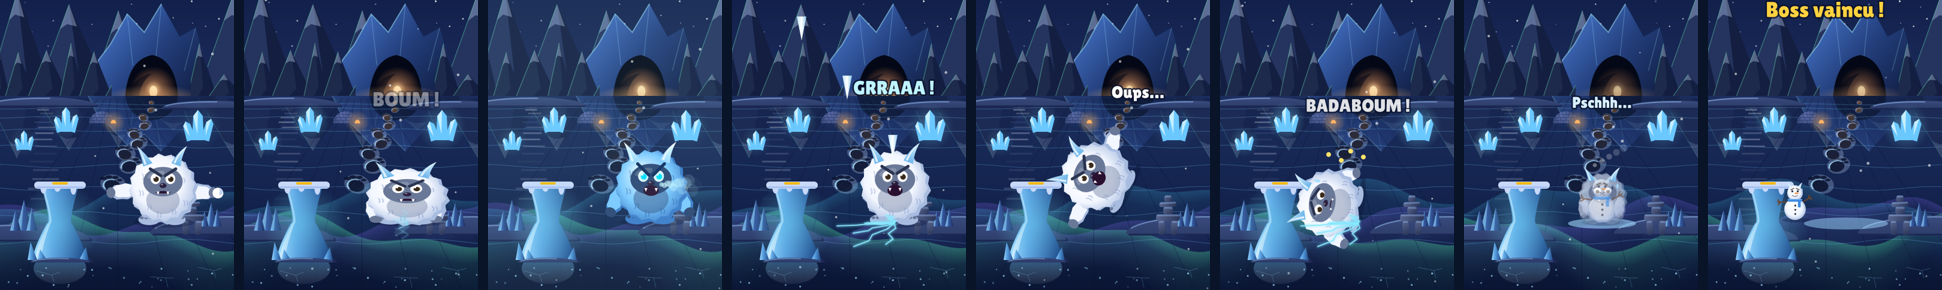
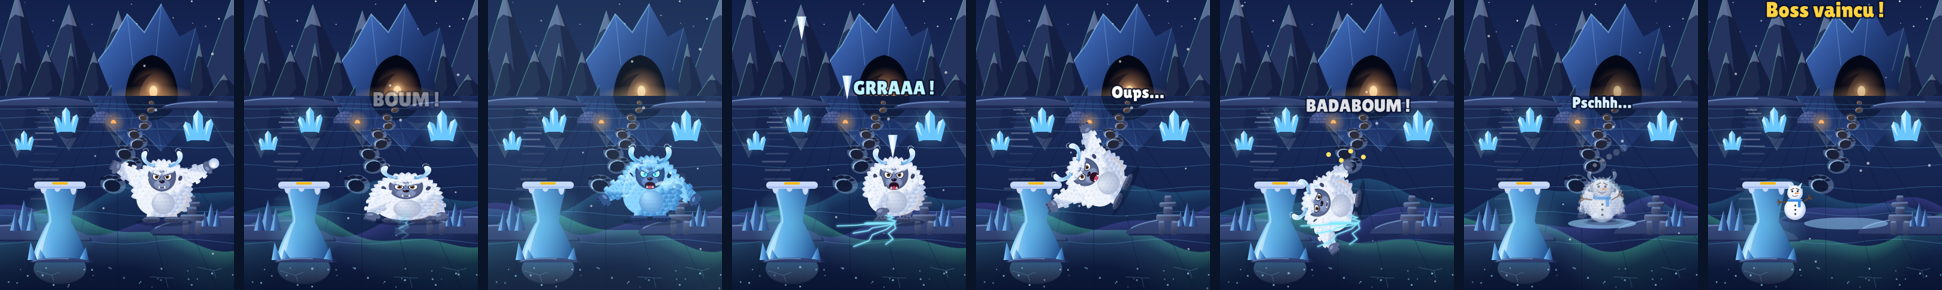
Monde 5 : Yéti v2 (silhouette de gorille des neiges, fourrure en touffes, cornes de bélier en glace, deux lumières)
Claude-Session: https://claude.ai/code/session_01NEC92qwxswvqqiEaD4C6hh

diff --git a/design/brouillons/2026-11-19-banquise-maquettes.html b/design/brouillons/2026-11-19-banquise-maquettes.html
@@ -281,7 +281,7 @@ function furPath(cx, cy, rx, ry, n, amp, ph) { c.beginPath(); for (let i = 0; i 
 function yetiPal(o) { if (o.rage) return { fur: '#7ac8ff', furSh: '#3a7ac8', furLi: '#d8f2ff', belly: '#3a5a8a', face: '#2a4470', horn: '#ffffff', hornSh: '#9ad8ff', eye: '#ffffff', iris: '#00e0ff' };
   if (o.snow) return { fur: '#ffffff', furSh: '#c8d8f0', furLi: '#ffffff', belly: '#e8f0fc', face: '#f4f8ff', horn: '#ffffff', hornSh: '#c8e4ff', eye: '#1a2440', iris: '#1a2440' };
   return { fur: '#f2f6ff', furSh: '#a8bce0', furLi: '#ffffff', belly: '#8a98b4', face: '#6a7898', horn: '#d8f2ff', hornSh: '#6ab4ea', eye: '#ffffff', iris: '#3a2a1a' }; }
-function yeti(x, y, s, t, o = {}) { /* y = pieds au sol */
+var yeti = function (x, y, s, t, o = {}) { /* y = pieds au sol */
   const P = yetiPal(o), sq = o.squash || 1, crouch = o.crouch || 0, arms = o.arms || 0, blink = (t % 220) < 7 ? .12 : 1;
   c.save(); c.translate(x, y); c.scale(s * (o.flip ? -1 : 1) / sq, s * sq);
   /* ombre */ c.fillStyle = 'rgba(10,20,50,0.3)'; c.beginPath(); c.ellipse(4, 2, 62, 10, 0, 0, TAU); c.fill();
@@ -362,6 +362,119 @@ function snowman(x, y, s, t, o = {}) { const sad = o.sad == null ? 1 : o.sad, wa
   /* bouche en charbon (moue) */ c.fillStyle = '#2a2a3a'; for (let k = 0; k < 5; k++) { c.beginPath(); c.arc(-8 + k * 4, -76 - Math.abs(k - 2) * 1.4 * sad + (1 - sad) * Math.abs(k - 2) * 1.4, 1.4, 0, TAU); c.fill(); }
   if (sad) { c.fillStyle = 'rgba(160,220,255,0.9)'; c.beginPath(); c.moveTo(24, -104); c.quadraticCurveTo(28, -96, 24, -94); c.quadraticCurveTo(20, -96, 24, -104); c.fill(); }
   c.restore(); }
+/* ===== Yéti v2 : silhouette de gros gorille des neiges, fourrure en touffes superposées, deux lumières ===== */
+function yetiPal2(o) {
+  if (o.rage) return { f0: '#e4f8ff', f1: '#8ad4ff', f2: '#3a86d0', f3: '#163e80', skin: '#2c4a86', skinL: '#5a82c4', skinD: '#14285a', pad: '#10204a', eyeW: '#e8fcff', iris: '#00e8ff', horn0: '#ffffff', horn1: '#7ad8ff', horn2: '#2a78c8', brow: '#0e2a64' };
+  return { f0: '#ffffff', f1: '#eef3fc', f2: '#b8c8e6', f3: '#7a8cb8', skin: '#5a6890', skinL: '#8494bc', skinD: '#38446a', pad: '#2c3656', eyeW: '#fbfcff', iris: '#5a3a1e', horn0: '#ffffff', horn1: '#b8e4ff', horn2: '#5aa0e0', brow: '#2c3656' }; }
+/* une touffe de fourrure : goutte orientée, dégradé du clair (lumière haut-gauche) au foncé */
+function tuft(x, y, w, h, a, P, lit) { c.save(); c.translate(x, y); c.rotate(a);
+  const g = c.createLinearGradient(-w, -h * .2, w * .6, h); g.addColorStop(0, lit > .5 ? P.f0 : P.f1); g.addColorStop(.55, lit > .2 ? P.f1 : P.f2); g.addColorStop(1, P.f2);
+  c.fillStyle = g; c.beginPath(); c.moveTo(-w, 0); c.quadraticCurveTo(-w * .9, h * .7, 0, h); c.quadraticCurveTo(w * .9, h * .7, w, 0); c.quadraticCurveTo(0, -h * .25, -w, 0); c.fill();
+  c.strokeStyle = 'rgba(80,100,150,0.12)'; c.lineWidth = 1; c.beginPath(); c.moveTo(w * .2, h * .15); c.quadraticCurveTo(w * .35, h * .55, w * .05, h * .9); c.stroke();
+  c.restore(); }
+/* masse de fourrure : on remplit une forme puis on la couvre de touffes en rangées (du haut vers le bas) */
+function furMass(path, bx0, by0, bx1, by1, P, seed, tw = 13) {
+  c.save(); path(); c.clip();
+  const g = c.createLinearGradient(bx0, by0, bx1, by1); g.addColorStop(0, P.f1); g.addColorStop(.6, P.f2); g.addColorStop(1, P.f3); c.fillStyle = g; c.fillRect(bx0 - 20, by0 - 20, bx1 - bx0 + 40, by1 - by0 + 40);
+  let row = 0; for (let y = by0 - 6; y < by1 + 10; y += tw * .95, row++) for (let x = bx0 - 10 + (row % 2) * tw * .7; x < bx1 + 10; x += tw * 1.4) {
+    const jx = (h1(seed + row * 31 + x) - .5) * 6, lit = 1 - ((x - bx0) / (bx1 - bx0) * .6 + (y - by0) / (by1 - by0) * .7);
+    tuft(x + jx, y, tw * .85, tw * 1.6, (h1(seed + x * 3 + row) - .5) * .5, P, lit); }
+  c.restore(); }
+/* contour en touffes qui dépassent de la silhouette */
+function furEdge(pts, P, out, tw = 10) { for (let i = 0; i < pts.length; i++) { const [x, y, a, lit] = pts[i]; tuft(x, y, tw, tw * 1.7, a, P, lit); } }
+function iceHorn(sd, P, rage) { c.save(); c.scale(sd, 1);
+  /* corne de bélier en glace : courbe épaisse, facettes, reflet, éclat */
+  const path = () => { c.beginPath(); c.moveTo(-10, 8); c.bezierCurveTo(14, 2, 34, -18, 26, -40); c.bezierCurveTo(20, -52, 4, -50, 8, -38); c.bezierCurveTo(12, -30, 16, -24, 10, -16); c.bezierCurveTo(6, -10, -2, -6, -12, -4); c.closePath(); };
+  const g = c.createLinearGradient(-6, 6, 30, -56); g.addColorStop(0, P.horn2); g.addColorStop(.45, P.horn1); g.addColorStop(1, P.horn0); c.fillStyle = g; path(); c.fill();
+  c.save(); path(); c.clip(); c.fillStyle = 'rgba(255,255,255,0.55)'; c.beginPath(); c.moveTo(-6, 0); c.bezierCurveTo(8, -6, 20, -26, 14, -44); c.lineTo(8, -46); c.bezierCurveTo(12, -28, 4, -12, -8, -6); c.fill();
+  c.strokeStyle = 'rgba(40,110,190,0.35)'; c.lineWidth = 1.2; for (const k of [.3, .55, .78]) { c.beginPath(); c.moveTo(-4 + k * 20, 4 - k * 30); c.lineTo(8 + k * 22, -4 - k * 34); c.stroke(); } c.restore();
+  c.strokeStyle = 'rgba(255,255,255,0.9)'; c.lineWidth = 1.4; c.beginPath(); c.moveTo(20, -50); c.bezierCurveTo(12, -60, 0, -54, 4, -44); c.stroke();
+  if (rage) { c.save(); c.shadowColor = '#7af0ff'; c.shadowBlur = 14; c.fillStyle = 'rgba(180,250,255,0.9)'; c.beginPath(); c.arc(22, -50, 2.5, 0, TAU); c.fill(); c.restore(); }
+  c.restore(); }
+function yeti2(x, y, s, t, o = {}) {
+  const P = yetiPal2(o), sq = o.squash || 1, cr = o.crouch || 0, blink = (t % 230) < 7 ? .1 : 1, breathe = Math.sin(t * .05) * (1 - cr) * 2, mo = o.mouth || 0;
+  const aR = o.arms || 0, aL = o.armsL != null ? o.armsL : aR;
+  c.save(); c.translate(x, y); c.scale(s * (o.flip ? -1 : 1) / sq, s * sq);
+  /* ombre portée et contact */
+  c.fillStyle = 'rgba(6,14,40,0.35)'; c.beginPath(); c.ellipse(8, 2, 92, 13, 0, 0, TAU); c.fill();
+  const BY = -96 + cr * 22 + breathe;   /* centre du corps */
+  /* ---- jambes et pieds ---- */
+  for (const sd of [-1, 1]) {
+    const lp = () => { c.beginPath(); c.moveTo(sd * 18, BY + 50); c.quadraticCurveTo(sd * 54, BY + 60, sd * 50, -12); c.lineTo(sd * 18, -12); c.closePath(); };
+    furMass(lp, sd < 0 ? -56 : 14, BY + 40, sd < 0 ? -14 : 56, 0, P, 40 + sd, 10);
+    c.fillStyle = P.skinD; c.beginPath(); c.ellipse(sd * 36, -6, 30, 10, 0, 0, TAU); c.fill();
+    c.fillStyle = P.skin; c.beginPath(); c.ellipse(sd * 34, -9, 27, 8, 0, Math.PI, TAU); c.fill();
+    for (let k = 0; k < 3; k++) { const tx = sd * (24 + k * 11); c.fillStyle = P.pad; c.beginPath(); c.ellipse(tx, -3, 6, 4.5, 0, 0, TAU); c.fill(); c.fillStyle = 'rgba(255,255,255,0.18)'; c.beginPath(); c.ellipse(tx - 1.5, -5, 2.5, 1.5, 0, 0, TAU); c.fill(); }
+  }
+  /* ---- bras arrière (côté droit) dessiné avant le corps ---- */
+  const arm = (sd, a) => { c.save(); c.translate(sd * 58, BY - 36); c.rotate(sd * (.18 - a * 2.6));
+    const ap = () => { c.beginPath(); c.moveTo(-20, -6); c.bezierCurveTo(-28, 30, -24, 70, -16, 96); c.lineTo(16, 96); c.bezierCurveTo(24, 66, 26, 24, 18, -10); c.closePath(); };
+    furMass(ap, -30, -10, 28, 100, P, 70 + sd * 5, 11);
+    furEdge([[-22, 20, .5, .8], [-24, 48, .4, .6], [-20, 76, .3, .4], [22, 30, -.4, .3], [20, 62, -.3, .2]], P, 1, 9);
+    /* main : paume grise, 3 gros doigts, pouce */
+    c.fillStyle = P.skin; c.beginPath(); c.ellipse(0, 104, 19, 14, 0, 0, TAU); c.fill();
+    c.fillStyle = P.skinL; c.beginPath(); c.ellipse(-5, 100, 9, 5, -.3, 0, TAU); c.fill();
+    for (let k = 0; k < 3; k++) { c.fillStyle = P.skin; c.beginPath(); c.ellipse(-11 + k * 11, 117, 6, 8, 0, 0, TAU); c.fill(); c.fillStyle = P.skinD; c.beginPath(); c.ellipse(-11 + k * 11, 121, 4, 3, 0, 0, TAU); c.fill(); }
+    c.fillStyle = P.skin; c.beginPath(); c.ellipse(sd * -18, 102, 6, 9, sd * .6, 0, TAU); c.fill();
+    if (o.ball && sd > 0) { const g = c.createRadialGradient(-6, 122, 2, 0, 128, 18); g.addColorStop(0, '#ffffff'); g.addColorStop(1, '#a8c4ec'); c.fillStyle = g; c.beginPath(); c.arc(0, 128, 17, 0, TAU); c.fill(); c.fillStyle = 'rgba(255,255,255,0.9)'; c.beginPath(); c.arc(-6, 121, 4, 0, TAU); c.fill(); }
+    c.restore(); };
+  arm(1, aR);
+  /* ---- corps (poire) ---- */
+  const bodyPath = () => { c.beginPath(); c.moveTo(0, BY - 96); c.bezierCurveTo(52, BY - 98, 82, BY - 50, 84, BY + 6); c.bezierCurveTo(88, BY + 50, 60, BY + 78, 0, BY + 80); c.bezierCurveTo(-60, BY + 78, -88, BY + 50, -84, BY + 6); c.bezierCurveTo(-82, BY - 50, -52, BY - 98, 0, BY - 96); c.closePath(); };
+  furMass(bodyPath, -88, BY - 100, 88, BY + 84, P, 11, 14);
+  /* contour en touffes (silhouette poilue), plus clair côté lumière */
+  const edge = []; for (let i = 0; i <= 22; i++) { const u = i / 22, a = Math.PI + u * Math.PI * 1.25 - .15, rx = 84, ry = 90; const ex = Math.cos(a) * rx, ey = BY - 4 + Math.sin(a) * ry; if (ey > BY + 60) continue; edge.push([ex, ey, a - Math.PI / 2, 1 - u]); }
+  furEdge(edge, P, 1, 11);
+  /* ventre : fourrure plus courte et plus grise */
+  c.save(); c.beginPath(); c.ellipse(4, BY + 34, 38, 36, 0, 0, TAU); c.clip();
+  const vg = c.createRadialGradient(-12, BY + 14, 6, 4, BY + 34, 46); vg.addColorStop(0, o.rage ? '#a8dcff' : '#dfe6f4'); vg.addColorStop(1, o.rage ? '#4a8ad0' : '#a4b2d0'); c.fillStyle = vg; c.fillRect(-50, BY - 20, 100, 100);
+  for (let r = 0; r < 6; r++) for (let k = -3; k <= 3; k++) { const tx = k * 14 + (r % 2) * 7, ty = BY + 2 + r * 13; c.strokeStyle = 'rgba(70,90,140,0.18)'; c.lineWidth = 1.2; c.beginPath(); c.moveTo(tx - 4, ty); c.quadraticCurveTo(tx, ty + 5, tx + 4, ty); c.stroke(); }
+  c.restore();
+  /* ---- tête : visage, oreilles, cornes, sourcils ---- */
+  const HY = BY - 46;
+  for (const sd of [-1, 1]) { c.save(); c.translate(sd * 34, HY - 44); c.rotate(sd * .15); c.scale(1.05, 1.05); iceHorn(sd, P, o.rage); c.restore(); }
+  for (const sd of [-1, 1]) { furEdge([[sd * 62, HY - 8, sd * -1.2, sd < 0 ? .8 : .3], [sd * 66, HY + 4, sd * -1.4, .4]], P, 1, 9); c.fillStyle = P.skinD; c.beginPath(); c.ellipse(sd * 60, HY - 2, 6, 9, sd * .5, 0, TAU); c.fill(); }
+  /* masque du visage (forme de cœur), peau mate avec modelé */
+  const facePath = () => { c.beginPath(); c.moveTo(0, HY - 34); c.bezierCurveTo(18, HY - 46, 48, HY - 38, 46, HY - 8); c.bezierCurveTo(46, HY + 22, 26, HY + 40, 0, HY + 42); c.bezierCurveTo(-26, HY + 40, -46, HY + 22, -46, HY - 8); c.bezierCurveTo(-48, HY - 38, -18, HY - 46, 0, HY - 34); c.closePath(); };
+  const fg = c.createRadialGradient(-16, HY - 18, 4, 4, HY + 4, 60); fg.addColorStop(0, P.skinL); fg.addColorStop(.6, P.skin); fg.addColorStop(1, P.skinD); c.fillStyle = fg; facePath(); c.fill();
+  c.save(); facePath(); c.clip(); c.fillStyle = 'rgba(255,255,255,0.14)'; c.beginPath(); c.ellipse(-18, HY - 24, 20, 8, -.4, 0, TAU); c.fill(); c.restore();
+  /* touffes qui retombent sur le front (frange) */
+  for (let k = -3; k <= 3; k++) tuft(k * 12, HY - 40 + Math.abs(k) * 2, 9, 16, k * .1, P, k < 0 ? .9 : .5);
+  /* yeux */
+  for (const sd of [-1, 1]) { const ex = sd * 19, ey = HY - 8;
+    c.fillStyle = P.skinD; c.beginPath(); c.ellipse(ex, ey + 1, 14, 13, 0, 0, TAU); c.fill(); /* orbite */
+    c.fillStyle = P.eyeW; c.beginPath(); c.ellipse(ex, ey, 11, 11.5 * blink * (o.sad ? .85 : 1), 0, 0, TAU); c.fill();
+    if (blink > .5) { if (o.rage) { c.save(); c.shadowColor = '#00e8ff'; c.shadowBlur = 16; }
+      const ig = c.createRadialGradient(ex, ey, 1, ex + (o.sad ? 0 : sd * 1), ey + 1, 7); ig.addColorStop(0, o.rage ? '#ffffff' : '#a87a4a'); ig.addColorStop(1, P.iris); c.fillStyle = ig; c.beginPath(); c.arc(ex + (o.sad ? 0 : -sd * 1.5), ey + (o.sad ? 3 : 1.5), 6.5, 0, TAU); c.fill();
+      c.fillStyle = o.rage ? '#004a80' : '#120a06'; c.beginPath(); c.arc(ex + (o.sad ? 0 : -sd * 1.5), ey + (o.sad ? 3 : 1.5), o.rage ? 2.2 : 3.4, 0, TAU); c.fill(); if (o.rage) c.restore();
+      c.fillStyle = '#ffffff'; c.beginPath(); c.arc(ex - 3.5, ey - 3.5, 2.4, 0, TAU); c.fill(); c.beginPath(); c.arc(ex + 3, ey + 4, 1, 0, TAU); c.fill(); }
+    /* paupière supérieure lourde (air bougon) */
+    const tilt = o.sad ? -7 : o.rage ? 12 : 8; c.save(); c.beginPath(); c.ellipse(ex, ey, 12, 12.5, 0, 0, TAU); c.clip(); c.fillStyle = P.skin; c.beginPath(); c.moveTo(ex - 14, ey - 4 + tilt * sd * .55); c.lineTo(ex + 14, ey - 4 - tilt * sd * .55); c.lineTo(ex + 14, ey - 16); c.lineTo(ex - 14, ey - 16); c.fill(); c.restore();
+    /* gros sourcil en fourrure */
+    c.save(); c.translate(ex, ey - 13); c.rotate(-sd * tilt * .045); for (let k = 0; k < 4; k++) tuft(-12 + k * 8, -3, 6, 10, sd * .5 + .2, { f0: o.rage ? '#e4f8ff' : '#ffffff', f1: P.f1, f2: P.f2 }, k / 4); c.restore(); }
+  /* museau, nez, bouche avec deux crocs du bas (mâchoire bougonne) */
+  c.fillStyle = P.skinL; c.beginPath(); c.ellipse(0, HY + 18, 26, 17, 0, 0, TAU); c.fill();
+  c.fillStyle = 'rgba(255,255,255,0.15)'; c.beginPath(); c.ellipse(-8, HY + 12, 12, 5, -.2, 0, TAU); c.fill();
+  c.fillStyle = '#1e1630'; c.beginPath(); c.moveTo(-9, HY + 6); c.quadraticCurveTo(0, HY + 2, 9, HY + 6); c.quadraticCurveTo(10, HY + 14, 0, HY + 15); c.quadraticCurveTo(-10, HY + 14, -9, HY + 6); c.fill();
+  c.fillStyle = 'rgba(255,255,255,0.4)'; c.beginPath(); c.ellipse(-3, HY + 7, 3, 1.6, 0, 0, TAU); c.fill();
+  const mY = HY + 27;
+  c.fillStyle = '#2a0e24';
+  if (mo > .1) { c.beginPath(); c.ellipse(0, mY + 2, 16, 4 + mo * 10, 0, 0, TAU); c.fill(); c.fillStyle = '#c84a6a'; c.beginPath(); c.ellipse(0, mY + 4 + mo * 6, 9, 3 + mo * 3, 0, 0, TAU); c.fill(); }
+  else { c.beginPath(); c.moveTo(-17, mY - (o.sad ? -3 : 1)); c.quadraticCurveTo(0, mY + (o.sad ? -4 : 4), 17, mY - (o.sad ? -3 : 1)); c.quadraticCurveTo(0, mY + (o.sad ? 1 : 8), -17, mY - (o.sad ? -3 : 1)); c.fill(); }
+  c.fillStyle = '#fbf6ea'; for (const tx of [-9, 9]) { const ty = mY + (mo > .1 ? 4 + mo * 9 : 4); c.beginPath(); c.moveTo(tx - 3.5, ty); c.lineTo(tx + 3.5, ty); c.lineTo(tx + (tx < 0 ? -.5 : .5), ty - 9 - (o.sad ? -2 : 0)); c.closePath(); c.fill(); }
+  if (o.sad) { c.fillStyle = 'rgba(170,225,255,0.95)'; c.beginPath(); c.moveTo(52, HY - 34); c.quadraticCurveTo(59, HY - 20, 52, HY - 16); c.quadraticCurveTo(45, HY - 20, 52, HY - 34); c.fill(); }
+  /* ---- bras avant (gauche) ---- */
+  arm(-1, aL);
+  /* ---- lumières : liseré de lune (haut-gauche), liseré chaud de la grotte (droite), givre en colère ---- */
+  c.save(); bodyPath(); c.clip();
+  c.strokeStyle = 'rgba(210,235,255,0.55)'; c.lineWidth = 8; c.beginPath(); c.moveTo(-84, BY + 10); c.bezierCurveTo(-82, BY - 50, -52, BY - 98, 0, BY - 96); c.stroke();
+  if (o.night && !o.rage) { c.strokeStyle = 'rgba(255,170,100,0.35)'; c.lineWidth = 10; c.beginPath(); c.moveTo(84, BY + 6); c.bezierCurveTo(88, BY + 50, 60, BY + 78, 20, BY + 80); c.stroke(); }
+  c.restore();
+  if (o.rage) { for (const [fx, fy, fs] of [[-70, BY - 40, 1], [-46, BY - 76, .8], [64, BY - 52, .9], [76, BY - 10, .7]]) { c.save(); c.translate(fx, fy); c.scale(fs, fs); c.fillStyle = 'rgba(200,250,255,0.9)'; for (let k = 0; k < 3; k++) { c.save(); c.rotate((k - 1) * .5); c.beginPath(); c.moveTo(-3, 0); c.lineTo(0, -14); c.lineTo(3, 0); c.fill(); c.restore(); } c.restore(); } }
+  if (o.breath) { for (let i = 0; i < 14; i++) { const q = ((t * .03 + i / 14) % 1); c.fillStyle = `rgba(210,248,255,${(.75 * (1 - q)).toFixed(3)})`; c.beginPath(); c.arc(16 + q * 90, mY + Math.sin(i * 2 + t * .1) * q * 16 - q * 10, 4 + q * 12, 0, TAU); c.fill(); } }
+  c.restore(); }
+
+const yetiV1 = yeti; yeti = function (x, y, s, t, o = {}) { return yeti2(x, y, s * .62, t, Object.assign({ night: ZN.night }, o)); };
 function yetiScene(t) {
   const X = 270, GY = 730;
   if (YS === 1) { const T = t % 160, wind = T < 50 ? T / 50 : T < 70 ? 1 : 0; yeti(X, GY, .82, t, { arms: wind * .9, ball: T < 70, mouth: T > 60 && T < 80 ? .6 : 0 });
